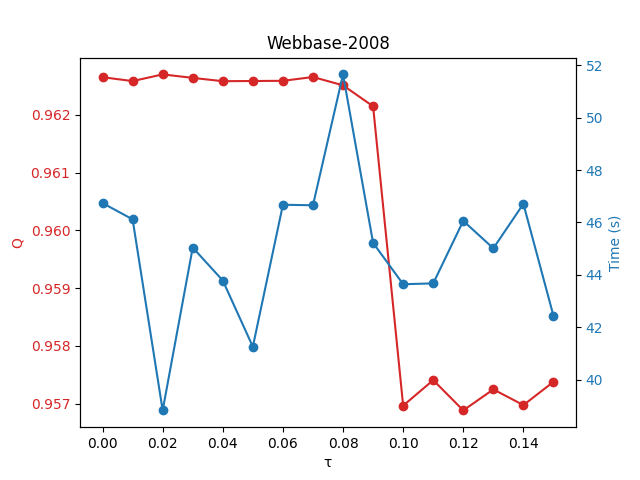
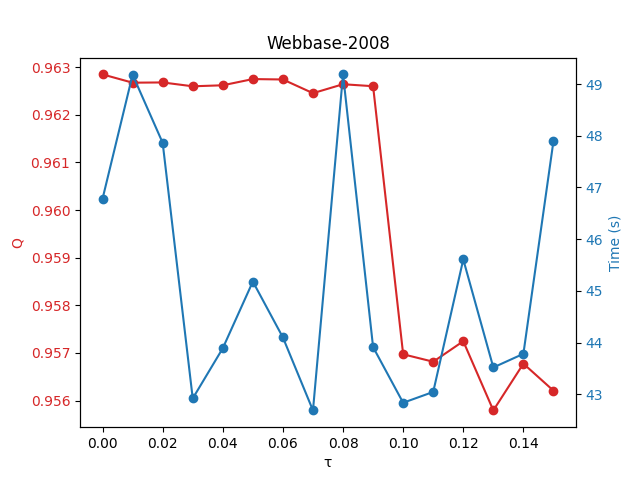
LNE

diff --git a/plottingEFPS.py b/plottingEFPS.py
@@ -1,0 +1,27 @@
+import matplotlib.pyplot as plt
+#EARLY FIRST PHASE STOPPING
+#Three seperate graphs for three networks: 200K 400K 1M
+
+q_dict = {(0.0, 2, False): [0.6075632872949482, 0.9628469608462804, 0.9957696468955903], (0.01, 2, False): [0.6097334970688687, 0.9626730365815179, 0.9953136994899365], (0.02, 2, False): [0.6085713617304819, 0.9626780520475379, 0.9912427965387208], (0.03, 2, False): [0.6076389297988322, 0.9625972387802789, 0.978628827499884], (0.04, 2, False): [0.6077433005368443, 0.9626184126119556, 0.9786867646998217], (0.05, 2, False): [0.6076632493079178, 0.9627489873190792, 0.9786400705845472], (0.06, 2, False): [0.6054299942956365, 0.9627402179510796, 0.978605790476074], (0.07, 2, False): [0.5940173284302291, 0.9624526293414205, 0.9492830646285163], (0.08, 2, False): [0.5958648260830798, 0.9626405044204253, 0.949459044604955], (0.09, 2, False): [0.5930995305529632, 0.9625991385192647, 0.9492183704357658], (0.1, 2, False): [0.5893109939617581, 0.9569719107255468, 0.949308557424411], (0.11, 2, False): [0.5939217812994312, 0.9568153234818684, 0.9494460280442634], (0.12, 2, False): [0.5936575979939519, 0.9572458344756292, 0.9493203449284288], (0.13, 2, False): [0.5954053757033668, 0.9557936465161506, 0.8861817986035686], (0.14, 2, False): [0.59122347920032, 0.9567747418306554, 0.8857435459838431], (0.15, 2, False): [0.5902794444481332, 0.956208137404427, 0.8858451173074434]} 
+t_dict = {(0.0, 2, False): [(8.173927068710327, 0.0), (46.78161406517029, 0.0), (45.92499256134033, 0.0)], (0.01, 2, False): [(7.9456400871276855, 0.0), (49.1805899143219, 0.0), (41.826671838760376, 0.0)], (0.02, 2, False): [(5.349376201629639, 0.0), (47.8637216091156, 0.0), (40.44899606704712, 0.0)], (0.03, 2, False): [(7.409040927886963, 0.0), (42.918917179107666, 0.0), (34.740927934646606, 0.0)], (0.04, 2, False): [(7.369369029998779, 0.0), (43.89022493362427, 0.0), (40.4847297668457, 0.0)], (0.05, 2, False): [(6.179036855697632, 0.0), (45.17990279197693, 0.0), (37.969202280044556, 0.0)], (0.06, 2, False): [(7.243160247802734, 0.0), (44.098708152770996, 0.0), (35.5289671421051, 0.0)], (0.07, 2, False): [(5.960384368896484, 0.0), (42.68769454956055, 0.0), (38.341100215911865, 0.0)], (0.08, 2, False): [(6.377218961715698, 0.0), (49.1873459815979, 0.0), (35.98974061012268, 0.0)], (0.09, 2, False): [(8.35620903968811, 0.0), (43.912089347839355, 0.0), (36.396450996398926, 0.0)], (0.1, 2, False): [(5.336548805236816, 0.0), (42.83551239967346, 0.0), (38.518182039260864, 0.0)], (0.11, 2, False): [(6.140404939651489, 0.0), (43.04487133026123, 0.0), (36.04148864746094, 0.0)], (0.12, 2, False): [(5.966858386993408, 0.0), (45.60781145095825, 0.0), (38.21487355232239, 0.0)], (0.13, 2, False): [(6.824272155761719, 0.0), (43.51846432685852, 0.0), (37.755693435668945, 0.0)], (0.14, 2, False): [(5.398127317428589, 0.0), (43.782118797302246, 0.0), (36.18337440490723, 0.0)], (0.15, 2, False): [(6.069591999053955, 0.0), (47.89613723754883, 0.0), (34.20051646232605, 0.0)]}
+
+τ = [0.0, 0.01, 0.02, 0.03, 0.04, 0.05, 0.06, 0.07, 0.08, 0.09, 0.1, 0.11, 0.12, 0.13, 0.14, 0.15]
+
+for ix, network in enumerate(['Twitter Retweet Subgraph', 'Webbase-2008', 'Netherland Open Street Map Network']):
+	fig, ax1 = plt.subplots()
+	color = 'tab:red'
+	ax1.set_xlabel('τ')
+	ax1.set_ylabel('Q', color=color)
+	ax1.plot(τ, [val[ix] for val in q_dict.values()], color=color)
+	ax1.scatter(τ, [val[ix] for val in q_dict.values()], color=color)
+	ax1.tick_params(axis='y', labelcolor=color)
+
+	ax2 = ax1.twinx()  
+	color = 'tab:blue'
+	ax2.set_ylabel('Time (s)', color=color)  
+	ax2.plot(τ, [val[ix][0] for val in t_dict.values()], color=color)
+	ax2.scatter(τ, [val[ix][0] for val in t_dict.values()], color=color)
+	ax2.tick_params(axis='y', labelcolor=color)
+
+	plt.title(network)#TODO
+	plt.savefig(network + '.png')

diff --git a/SNACSproject.py b/SNACSproject.py
@@ -59,7 +59,7 @@ def performExperiment(G, threshold, comm_select, leafExclude):
 		t_start = time.time()
 		part = louvain.find_partition(G, louvain.ModularityVertexPartition, threshold=threshold, comm_select=comm_select)
 		t_end = time.time()
-	return part.quality(), (t_end-t_start), 0.0
+	return part.quality(), (t_end-t_start), 0.0, nLeaves
 
 if __name__ == "__main__":
 	#Community Select methods:
@@ -68,13 +68,14 @@ if __name__ == "__main__":
 	# 3 = RAND_COMM
 	# 4 = RAND_NEIGH_COMM (Traag's Improved Method)
 	method_dict = {1: "ALL_COMMS", 2: "ALL_NEIGH_COMMS", 3: "RAND_COMM", 4:"RAND_NEIGH_COMM"}
-	settings_list = [(0.0, 2, False), (0.01, 2, False), (0.02, 2, False), (0.03, 2, False), (0.04, 2, False), (0.05, 2, False), (0.06, 2, False), (0.07, 2, False), (0.08, 2, False), (0.09, 2, False), (0.1, 2, False), (0.11, 2, False), (0.12, 2, False), (0.13, 2, False), (0.14, 2, False), (0.15, 2, False)]#threshold, comm_select, leaf_node_exclusion
-	networks = [readNetwork("rec-amazon.tsv", False), readNetwork("soc-academia.tsv"), readNetwork("rt-higgs.tsv"), readNetwork("webbase-1M.tsv"), readNetwork("inf-netherlands_osm.tsv", False), readNetwork("venturiLevel3.tsv", False)]
+	settings_list = [(0.0, 2, False), (0.0, 2, True)]
+	networks = [readNetwork("rec-amazon.tsv", False), readNetwork("soc-academia.tsv"), readNetwork("rt-higgs.tsv"), readNetwork("webbase-1M.tsv"), readNetwork("inf-netherlands_osm.tsv", False), readNetwork("venturiLevel3.tsv", False)]# , , , 
 	n_settings = len(settings_list)
 	ind = np.arange(len(networks))
 	q_dict = {}
 	t_dict = {}
 	network_sizes = []
+	nLeaves = []
 
 	for network in networks:
 		network_size = network.vcount()
@@ -82,7 +83,8 @@ if __name__ == "__main__":
 		for setting in settings_list:
 			print("________________________________________")
 			print("LeafNodeExclusion used?: ", setting[2])
-			q, t, leafTime = performExperiment(network, setting[0], setting[1], setting[2])
+			q, t, leafTime, l = performExperiment(network, setting[0], setting[1], setting[2])
+			nLeaves.append(l)
 			print(q,t)
 			if setting in q_dict:
 				q_dict[setting].append(q)
@@ -94,34 +96,7 @@ if __name__ == "__main__":
 	print("Start plotting...")
 	print(q_dict)
 	print(t_dict)
-	'''
-	f, ax = plt.subplots(figsize=(10,8))
-	for ix, val in enumerate(q_dict.values()):#setting: [modularity]
-		print(val)
-		plt.scatter(network_sizes, val)
-		plt.plot(network_sizes, val)
-		#plt.bar(ind + ix*0.1, val, width = 0.09, align="edge")
-	#plt.xticks(ticks=range(len(network_sizes)), labels=network_sizes)#ticks param for x location
-	plt.xlabel("n")
-	ax.set_yscale('log')
-	ax.set_xscale('log')
-	plt.ylabel("Q")
-	ax.legend(["τ:{}, {}".format(setting[0], method_dict[setting[1]]) for setting in q_dict.keys()])
-	plt.savefig('modularityPlot.png')
+	print(nLeaves)
+	print(network_sizes)
 
-	f, ax = plt.subplots(figsize=(10,8))
-	#bars = []
-	for ix, val in enumerate(t_dict.values()):#setting: [modularity]
-		print(val)
-		plt.scatter(network_sizes, [tup[0] for tup in val])
-		plt.plot(network_sizes, [tup[0] for tup in val])
-		#bars.append(plt.bar(ind + ix*0.1, [tup[0] for tup in val], width = 0.09))
-		#plt.bar(ind + ix*0.1, [tup[1] for tup in val], width = 0.09, bottom=[tup[0] for tup in val], color='b')
-	#plt.xticks(ticks=range(len(network_sizes)), labels=network_sizes)
-	ax.set_xscale('log')
-	ax.set_yscale('log')
-	plt.xlabel("n")
-	plt.ylabel("Time (s)")
-	ax.legend(["τ:{}, {}".format(setting[0], method_dict[setting[1]]) for setting in q_dict.keys()])#bars,
-	plt.savefig('timePlot.png')
-	'''
+	

diff --git a/plottingLNE.py b/plottingLNE.py
@@ -1,0 +1,27 @@
+import matplotlib.pyplot as plt
+#EARLY FIRST PHASE STOPPING
+#Three seperate graphs for three networks: 200K 400K 1M
+
+q_dict =  
+t_dict = 
+network_sizes = [2216688, ]
+
+f, ax = plt.subplots(figsize=(10,8))
+for ix, val in enumerate(q_dict.values()):#setting: [modularity]
+	plt.bar(ind + ix*0.2, val, width = 0.2)
+plt.xticks(ticks=range(len(network_sizes)), labels=network_sizes)#ticks param for x location
+plt.xlabel("n")
+plt.ylabel("Q")
+ax.legend(["LNE:{}".format(setting[2]) for setting in q_dict.keys()])
+plt.savefig('modularityLNEPlot.png')
+
+f, ax = plt.subplots(figsize=(10,8))
+bars = []
+for ix, val in enumerate(t_dict.values()):#setting: [modularity]
+	bars.append(plt.bar(ind + ix*0.2, [tup[0] for tup in val], width = 0.2))
+	plt.bar(ind + ix*0.2, [tup[1] for tup in val], width = 0.2, bottom=[tup[0] for tup in val], color='b')
+plt.xticks(ticks=range(len(network_sizes)), labels=network_sizes)
+plt.xlabel("n")
+plt.ylabel("Time (s)")
+ax.legend(bars, ["LNE:{}".format(setting[2]) for setting in t_dict.keys()])
+plt.savefig('timeLNEPlot.png')
